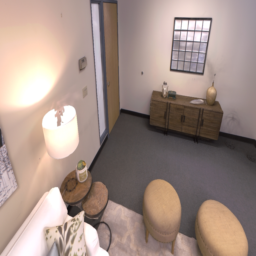
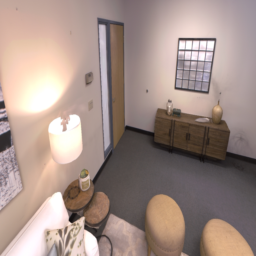
compare rendered depth with gt

diff --git a/src/paper/generate_point_cloud_figure_new.py b/src/paper/generate_point_cloud_figure_new.py
@@ -48,7 +48,17 @@ SCENES = (
     # ("test", [785, 795], 15, [0]),
     # ("1825_1865", [1825, 1865], 15, [0, 30, 60, 90, 120, 150]),
     # ("124_128", [124, 128], 15, [0, 30, 60, 90, 120, 150]),
-    ("512_522", [0, 20], 15, [0]),
+    # ("512_522", [0, 1], 15, [0]),
+    # ("512_522", [0, 2], 15, [0]),
+    # ("512_522", [0, 3], 15, [0]),
+    # ("512_522", [0, 4], 15, [0]),
+    # ("512_522", [0, 5], 15, [0]),
+    # ("512_522", [0, 10], 15, [0]),
+    # ("512_522", [0, 15], 15, [0]),
+    ("512_522", [0, 40], 10, [0]),
+    # ("512_522", [10, 20], 15, [0]),
+    # ("512_522", [20, 30], 15, [0]),
+    # ("512_522", [30, 40], 15, [0]),
 )
 
 FIGURE_WIDTH = 500
@@ -115,10 +125,23 @@ def read_extrinsics(file_path, indices):
     device = 'cuda:0'
     extrinsics_cuda = extrinsics_4d.to(device)
 
-    print("ex ", extrinsics_cuda)
+    # print("ex ", extrinsics_cuda)
     return extrinsics_cuda
 
 
+
+
+def load_depth(indices):
+    preprocess = transforms.Compose([
+        transforms.Resize((256,256)),
+        transforms.ToTensor(),
+    ])
+    image_paths = [f"{scene_path}depth{index:06}.png" for index in indices]
+
+    for path in image_paths:
+        image = Image.open(path)  
+        image = preprocess(image)
+    return image
 
 def load_images(indices):
     
@@ -134,7 +157,7 @@ def load_images(indices):
         image = Image.open(path)  
         image_tensor = preprocess(image)
         # save_image(image_tensor, 'new_image_path.jpg')
-        image_tensor = image_tensor.unsqueeze(0) 
+        image_tensor = image_tensor.unsqueeze(0)
         images.append(image_tensor)
 
     batch_tensor = torch.cat(images, dim=0)
@@ -179,7 +202,7 @@ def generate_point_cloud_figure(cfg_dict):
         step_tracker=None,
     )
     model_wrapper.eval()
-
+    PSNR = []
     
     for idx, (scene, context_indices, far, angles) in enumerate(SCENES):
         # example = {
@@ -213,10 +236,11 @@ def generate_point_cloud_figure(cfg_dict):
         example["context"]["intrinsics"] = intrinsics.unsqueeze(0)
         example["context"]["image"] = load_images(context_indices).to(device)
         # Assuming near and far values are predefined or calculated elsewhere
-        example["context"]["near"] = torch.tensor([[0.05, 0.05]]).to(device)  # Example values
-        example["context"]["far"] = torch.tensor([[10.0, 10.0]]).to(device)  # Example values
+        example["context"]["near"] = torch.tensor([[0.1, 0.1]]).to(device)  # Example values
+        example["context"]["far"] = torch.tensor([[8.0, 8.0]]).to(device)  # Example values
         example["context"]["index"] = torch.tensor([context_indices]).to(device)
 
+        target_index = (context_indices[0]+context_indices[1]) // 2
         # print(example["context"])
         # print("___________")
         # print(example["context"]["image"].shape)
@@ -224,34 +248,45 @@ def generate_point_cloud_figure(cfg_dict):
         # Generate the Gaussians.
         visualization_dump = {}
         gaussians = encoder.forward(
-            example["context"], True, visualization_dump=visualization_dump
+            example["context"], global_step=1, deterministic=True, visualization_dump=visualization_dump
         )
+        print(example["context"]["image"][0].shape)
+        print("GAUSSIAN NUM", gaussians.means.shape)
+
+
         time1 = time.time()
         print(time1-start_time)
+
+        # simplify covariance to radius
+        unit_matrix = torch.eye(3, device=device)
+        gaussians_covariances = 0.5 * (gaussians.covariances + gaussians.covariances.transpose(-2, -1)).to(device)
+        det_covariances = torch.linalg.det(gaussians_covariances.squeeze(0)).to(device)
+        new_variances = det_covariances.pow(1/3).to(device)
+        gaussians.covariances = unit_matrix * new_variances.unsqueeze(-1).unsqueeze(-1).expand_as(gaussians_covariances)
+
+
+        op_mask = gaussians.opacities < 0.1
+        gaussians.means = gaussians.means[~op_mask].unsqueeze(0)
+        gaussians.covariances = gaussians.covariances[~op_mask].unsqueeze(0)
+        gaussians.harmonics = gaussians.harmonics[~op_mask].unsqueeze(0)
+        gaussians.opacities = gaussians.opacities[~op_mask].unsqueeze(0)
+
+        
         # print(gaussians.covariances.shape)
         # print(gaussians.covariances)
         # print(gaussians.harmonics.shape)
         # print(gaussians.harmonics)
         # print("TESTTESTTEST")
-        # 计算每个协方差矩阵对角线元素（方差）的平均值
-        variance_means = gaussians.covariances.diagonal(dim1=-2, dim2=-1).mean(dim=-1)
 
-        # 创建一个全0的张量，形状与原始协方差矩阵相同
-        isotropic_covariances = torch.zeros_like(gaussians.covariances)
+        # variance_means = gaussians.covariances.diagonal(dim1=-2, dim2=-1).mean(dim=-1)
+        # isotropic_covariances = torch.zeros_like(gaussians.covariances)
+        # isotropic_covariances[..., 0, 0] = variance_means
+        # isotropic_covariances[..., 1, 1] = variance_means
+        # isotropic_covariances[..., 2, 2] = variance_means
+        # gaussians.covariances = isotropic_covariances
 
-        # 填充对角线元素为方差的平均值，创建各向同性协方差矩阵
-        # 这里使用了广播机制：variance_means[..., None, None] 将平均方差扩展到合适的维度
-        isotropic_covariances[..., 0, 0] = variance_means
-        isotropic_covariances[..., 1, 1] = variance_means
-        isotropic_covariances[..., 2, 2] = variance_means
-
-        # 更新原始的协方差矩阵为各向同性协方差矩阵
-        gaussians.covariances = isotropic_covariances
 
         zeroed_sh_coefficients = torch.zeros_like(gaussians.harmonics)
-
-        # 仅将0阶系数的值从原始张量复制到新的全0张量中
-        # 0阶系数对应最后一个维度的第一个元素
         zeroed_sh_coefficients[..., 0] = gaussians.harmonics[..., 0]
         gaussians.harmonics = zeroed_sh_coefficients
         # print("99999999999999999")
@@ -262,20 +297,38 @@ def generate_point_cloud_figure(cfg_dict):
         print(time2-start_time)
 
         # Render depth.
+        target_ex = read_extrinsics(extrinsics_path, [target_index])
+
+
         *_, h, w = example["context"]["image"].shape
+        target_in = torch.tensor([[[
+          [0.5000, 0.0000, 0.5000],
+          [0.0000, 0.8824, 0.5000],
+          [0.0000, 0.0000, 1.0000]]]], device='cuda:0')
+
+        target_near = torch.tensor([[0.0500]], device='cuda:0')
+        target_far = torch.tensor([[10.0]], device='cuda:0')
+
+
         rendered = decoder.forward(
             gaussians,
-            example["context"]["extrinsics"],
-            example["context"]["intrinsics"],
-            example["context"]["near"],
-            example["context"]["far"],
+            target_ex,
+            # example["context"]["extrinsics"],
+            # example["context"]["intrinsics"],
+            target_in,
+            target_near,
+            target_far,
+            # example["context"]["near"],
+            # example["context"]["far"],
             (h, w),
             "depth",
         )
 
         time3 = time.time()
         print(time3-time2)
-        target_gt = example["context"]["image"]
+
+        target_gt = load_images([target_index]).to(device)
+
 
         # Compute metrics.
         psnr_probabilistic = compute_psnr(
@@ -283,8 +336,9 @@ def generate_point_cloud_figure(cfg_dict):
             rearrange(rendered.color, "b v c h w -> (b v) c h w"),
         )
         print("train/psnr_probabilistic", psnr_probabilistic.mean())
-
-        print(rendered.color.shape)
+        PSNR.append(psnr_probabilistic.mean())
+        # 
+        # print(rendered.color.shape)
 
         for i in range(rendered.color.size(1)):
             save_image(rendered.color[0, i], f'image_{i}.png')
@@ -292,6 +346,29 @@ def generate_point_cloud_figure(cfg_dict):
         for i in range(target_gt.size(1)):
             save_image(target_gt[0, i], f'gt_{i}.png')
 
+        result = rendered.depth
+        depth_near = result[result > 0].quantile(0.01).log()
+        depth_far = result.quantile(0.99).log()
+        result = result.log()
+        result = 1 - (result - depth_near) / (depth_far - depth_near)
+        # result = apply_color_map_to_image(result, "turbo")
+        save_image(result[0, 0], f"_depth.png")
+
+        dep_gt = load_depth([target_index])
+        image_pil = transforms.ToPILImage()(dep_gt)
+
+        output_path = f"gt_depth.png"
+        image_pil.save(output_path)
+
+        gt_array = np.asarray(image_pil, dtype=np.float32)
+        pred_array = np.asarray(result[0, 0].cpu(), dtype=np.float32)
+    
+        # 计算绝对相对差
+        absrel = np.mean(np.abs(gt_array - pred_array) / gt_array)
+        print(absrel)
+
+
+    print(PSNR)
 
 
 if __name__ == "__main__":

diff --git a/src/paper/generate_point_cloud_figure_splatam.py b/src/paper/generate_point_cloud_figure_splatam.py
@@ -154,7 +154,7 @@ class PointCloudGenerator():
         extrinsics = torch.stack([curr_w2c.inverse(), last_w2c.inverse()], dim=0).unsqueeze(0).to(self.device)
         example["context"]["extrinsics"] = extrinsics
         example["context"]["image"] = torch.stack([curr_img, last_img], dim=0).unsqueeze(0).to(self.device)
-        example["context"]["near"] = torch.tensor([[0.05, 0.05]]).to(self.device)  # Example values
+        example["context"]["near"] = torch.tensor([[1.0, 1.0]]).to(self.device)  # Example values
         example["context"]["far"] = torch.tensor([[10.0, 10.0]]).to(self.device)  # Example values
         example["context"]["index"] = torch.tensor([time_idx, time_idx-4]).to(self.device)
         example["context"]["intrinsics"] = torch.tensor([[[
@@ -180,9 +180,41 @@ class PointCloudGenerator():
 
         visualization_dump = {}
         gaussians = self.encoder.forward(
-            example["context"], True, visualization_dump=visualization_dump
+            example["context"], global_step=1, deterministic=True, visualization_dump=visualization_dump
         )
 
+        unit_matrix = torch.eye(3, device=self.device)
+        gaussians_covariances = 0.5 * (gaussians.covariances + gaussians.covariances.transpose(-2, -1)).to(self.device)
+        det_covariances = torch.linalg.det(gaussians_covariances.squeeze(0)).to(self.device)
+        new_variances = det_covariances.pow(1/3).to(self.device)
+        gaussians.covariances = unit_matrix * new_variances.unsqueeze(-1).unsqueeze(-1).expand_as(gaussians_covariances)
+
+
+
+
+        # # 计算每个协方差矩阵对角线元素（方差）的平均值
+        # variance_means = gaussians.covariances.diagonal(dim1=-2, dim2=-1).mean(dim=-1)
+
+
+
+        # # 创建一个全0的张量，形状与原始协方差矩阵相同
+        # isotropic_covariances = torch.zeros_like(gaussians.covariances)
+
+        # # 填充对角线元素为方差的平均值，创建各向同性协方差矩阵
+        # # 这里使用了广播机制：variance_means[..., None, None] 将平均方差扩展到合适的维度
+        # isotropic_covariances[..., 0, 0] = variance_means
+        # isotropic_covariances[..., 1, 1] = variance_means
+        # isotropic_covariances[..., 2, 2] = variance_means
+
+        # # 更新原始的协方差矩阵为各向同性协方差矩阵
+        # gaussians.covariances = isotropic_covariances
+
+        zeroed_sh_coefficients = torch.zeros_like(gaussians.harmonics)
+
+        # 仅将0阶系数的值从原始张量复制到新的全0张量中
+        # 0阶系数对应最后一个维度的第一个元素
+        zeroed_sh_coefficients[..., 0] = gaussians.harmonics[..., 0]
+        gaussians.harmonics = zeroed_sh_coefficients
         # # Figure out which Gaussians to mask off/throw away.
         # _, _, _, h, w = example["context"]["image"].shape
 
@@ -215,20 +247,20 @@ class PointCloudGenerator():
         # gaussians.harmonics = trim(gaussians.harmonics)
         # gaussians.opacities = trim(gaussians.opacities)
 
-        op_mask = gaussians.opacities < 0.15
+        op_mask = gaussians.opacities < 0.1
         gaussians.means = gaussians.means[~op_mask].unsqueeze(0)
         gaussians.covariances = gaussians.covariances[~op_mask].unsqueeze(0)
         gaussians.harmonics = gaussians.harmonics[~op_mask].unsqueeze(0)
         gaussians.opacities = gaussians.opacities[~op_mask].unsqueeze(0)
 
-        print(gaussians.means.shape)
+        # print(gaussians.means.shape)
         # print(gaussians.covariances.shape)
         # print(gaussians.harmonics.shape)
         # print(gaussians.opacities.shape)
         # print(gaussians.covariances)
         # print(gaussians.harmonics)
-        end_time = time.time()
-        print("time", end_time-start_time)
+        # end_time = time.time()
+        # print("time", end_time-start_time)
 
         if render:
             *_, h, w = example["context"]["image"].shape

diff --git a/src/paper/generate_point_cloud_figure.py b/src/paper/generate_point_cloud_figure.py
@@ -51,7 +51,20 @@ SCENES = (
     # ("bc95e5c7e357f1b7", 30, 40, 15.0, [30, 60, 90, 120]),
     # ("34b0658a5c200cdf", 30, 40, 15.0, [30, 60, 90, 120]),
     # ("28e8300e004ab30b", 30, 40, 15.0, [30, 60, 90, 120]),
-    ("6558c5f10d45a929", 10, 30, 15.0, [60]),
+    ("6558c5f10d45a929", 0, 1, 15.0, [60]),
+    ("6558c5f10d45a929", 0, 2, 15.0, [60]),
+    ("6558c5f10d45a929", 0, 3, 15.0, [60]),
+    ("6558c5f10d45a929", 0, 4, 15.0, [60]),
+    # ("6558c5f10d45a929", 0, 5, 15.0, [60]),
+    # ("6558c5f10d45a929", 0, 10, 15.0, [60]),
+    # ("6558c5f10d45a929", 0, 15, 15.0, [60]),
+    # ("6558c5f10d45a929", 0, 20, 15.0, [60]),
+    # ("6558c5f10d45a929", 0, 25, 15.0, [60]),
+    # ("6558c5f10d45a929", 0, 30, 15.0, [60]),
+    # ("6558c5f10d45a929", 0, 35, 15.0, [60]),
+    # ("6558c5f10d45a929", 0, 40, 15.0, [60]),
+    # ("6558c5f10d45a929", 0, 45, 15.0, [60]),
+    # ("6558c5f10d45a929", 0, 50, 15.0, [60]),
     # ("89ea49cd9865aeff", 30, 40, 15.0, [30, 60, 90, 120]),
     # ("cd69cde6b6bab65c", 10, 20, 15.0, [0]),
 
@@ -70,6 +83,7 @@ POINT_DENSITY = 0.5
     config_name="main",
 )
 def generate_point_cloud_figure(cfg_dict):
+    PSNR = []
     cfg = load_typed_root_config(cfg_dict)
     set_cfg(cfg_dict)
     torch.manual_seed(cfg_dict.seed)
@@ -320,8 +334,8 @@ def generate_point_cloud_figure(cfg_dict):
             )
             print("train/psnr_probabilistic", psnr_probabilistic.mean())
 
-
-            print(rendered.color.shape)
+            PSNR.append(psnr_probabilistic.mean())
+            # print(rendered.color.shape)
 
             for i in range(rendered.color.size(1)):
                 save_image(rendered.color[0, i], f'image_{i}.png')
@@ -330,27 +344,29 @@ def generate_point_cloud_figure(cfg_dict):
                 save_image(target_gt[0, i], f'gt_{i}.png')
 
 
-            export_ply(
-                example["context"]["extrinsics"][0, 0],
-                trim(gaussians.means)[0],
-                trim(visualization_dump["scales"])[0],
-                trim(visualization_dump["rotations"])[0],
-                trim(gaussians.harmonics)[0],
-                trim(gaussians.opacities)[0],
-                base / "gaussians.ply",
-            )
+            # export_ply(
+            #     example["context"]["extrinsics"][0, 0],
+            #     trim(gaussians.means)[0],
+            #     trim(visualization_dump["scales"])[0],
+            #     trim(visualization_dump["rotations"])[0],
+            #     trim(gaussians.harmonics)[0],
+            #     trim(gaussians.opacities)[0],
+            #     base / "gaussians.ply",
+            # )
 
-            result = rendered.depth
-            depth_near = result[result > 0].quantile(0.01).log()
-            depth_far = result.quantile(0.99).log()
-            result = result.log()
-            result = 1 - (result - depth_near) / (depth_far - depth_near)
-            result = apply_color_map_to_image(result, "turbo")
-            save_image(result[0, 0], f"{base}_depth_0.png")
-            save_image(result[0, 1], f"{base}_depth_1.png")
-            a = 1
+            # result = rendered.depth
+            # depth_near = result[result > 0].quantile(0.01).log()
+            # depth_far = result.quantile(0.99).log()
+            # result = result.log()
+            # result = 1 - (result - depth_near) / (depth_far - depth_near)
+            # result = apply_color_map_to_image(result, "turbo")
+            # save_image(result[0, 0], f"{base}_depth_0.png")
+            # save_image(result[0, 1], f"{base}_depth_1.png")
+            # a = 1
         a = 1
+        
     a = 1
+    print(PSNR)
 
 
 if __name__ == "__main__":

diff --git a/src/model/decoder/cuda_splatting.py b/src/model/decoder/cuda_splatting.py
@@ -2,7 +2,7 @@ from math import isqrt
 from typing import Literal
 
 import torch
-from diff_gaussian_rasterization import (
+from diff_gaussian_rasterization_pixelsplat import (
     GaussianRasterizationSettings,
     GaussianRasterizer,
 )
